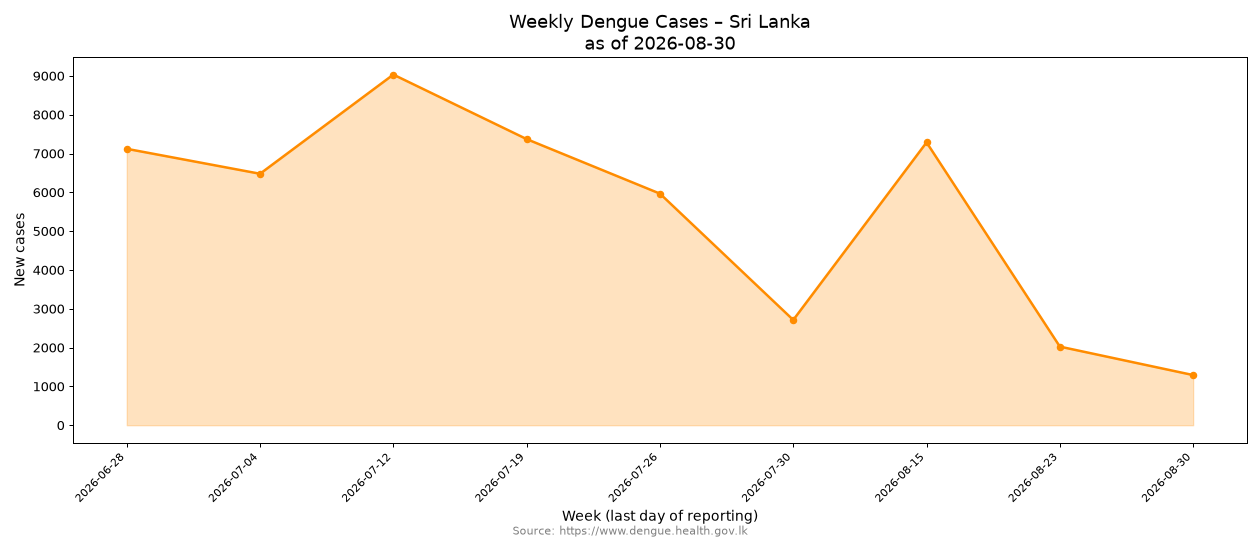
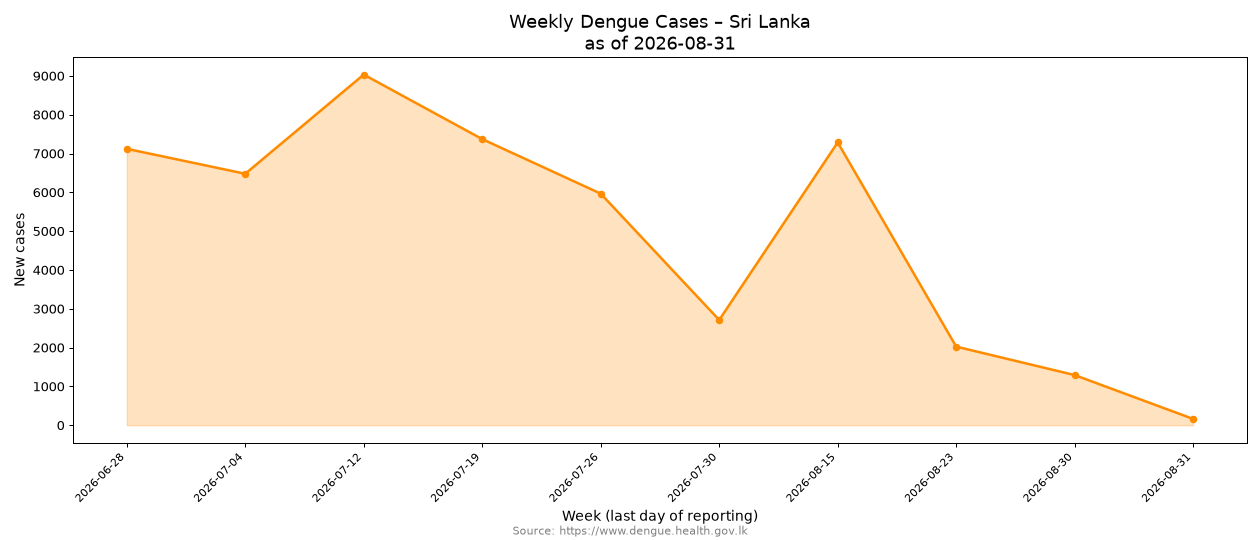
🤖 [pipeline.yml] 2026-09-01-0443

diff --git a/README.md b/README.md
@@ -166,6 +166,7 @@ As of 2026-08-23
 
 ### [National Dengue Control Unit - Daily Update](data/NDCUDaily)
 
+- [2026-08-31](data/NDCUDaily/2026/2026-08/2026-08-31)
 - [2026-08-30](data/NDCUDaily/2026/2026-08/2026-08-30)
 - [2026-08-28](data/NDCUDaily/2026/2026-08/2026-08-28)
 - [2026-08-27](data/NDCUDaily/2026/2026-08/2026-08-27)
